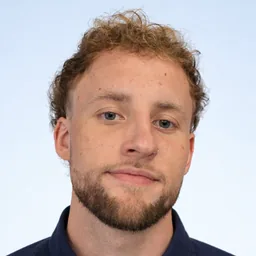
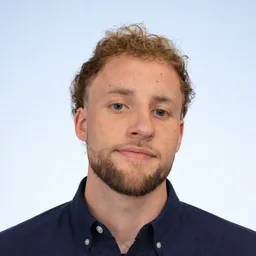
Contactfoto ruimer bijsnijden en e-mailknop compacter op mobiel
Claude-Session: https://claude.ai/code/session_01KvzGXLdFSujhmaeGMaQbVA

diff --git a/over/index.html b/over/index.html
@@ -68,7 +68,7 @@ bodyclass: page-over
           <p class="contact-meta">Eindwerkbegeleider: Elke Van Nooten<br>Groeneweg 151, 3001 Heverlee</p>
         </div>
         <div class="contact-actions">
-          <a class="btn btn-primary" href="mailto:kobe.cornelis4@gmail.com"><svg class="i" aria-hidden="true"><use href="#i-mail"/></svg>E-mail versturen</a>
+          <a class="btn btn-primary" href="mailto:kobe.cornelis4@gmail.com"><svg class="i" aria-hidden="true"><use href="#i-mail"/></svg><span>E-mail<span class="contact-long"> versturen</span></span></a>
           <a class="round-btn" href="https://kobecornelis.com" target="_blank" rel="noopener noreferrer" title="Mijn website" aria-label="Mijn website (opent in nieuw tabblad)"><svg class="i" aria-hidden="true"><use href="#i-globe"/></svg></a>
           <a class="round-btn" href="https://www.linkedin.com/in/kobecornelis/" target="_blank" rel="noopener noreferrer" title="LinkedIn" aria-label="LinkedIn-profiel (opent in nieuw tabblad)"><svg class="i" aria-hidden="true"><use href="#i-linkedin"/></svg></a>
         </div>

diff --git a/assets/css/style.css b/assets/css/style.css
@@ -2057,6 +2057,8 @@ input:disabled + .chip { opacity: .45; cursor: default; }
 .contact-actions { display: flex; flex-wrap: wrap; gap: 10px; }
 .contact-actions .btn-primary { background: #fff; color: #053D35; box-shadow: none; }
 .contact-actions .btn-primary:hover { background: #E3F7F1; }
+@media (max-width: 480px) { .contact-actions { gap: 8px; } .contact-actions .btn { padding: 0 16px; font-size: .9375rem; } }
+@media (max-width: 374px) { .contact-long { display: none; } }
 .round-btn { width: 48px; height: 48px; display: grid; place-items: center; border-radius: 50%; border: 1px solid rgba(255,255,255,.28); background: rgba(255,255,255,.08); color: #fff; transition: background-color .2s, transform .25s var(--ease); }
 .round-btn:hover { background: rgba(255,255,255,.18); transform: translateY(-2px); }
 @media (max-width: 860px) { .about-hero { grid-template-columns: 1fr; } .about-logo { order: -1; width: min(70%, 280px); } .contact-card { grid-template-columns: 1fr; } }
